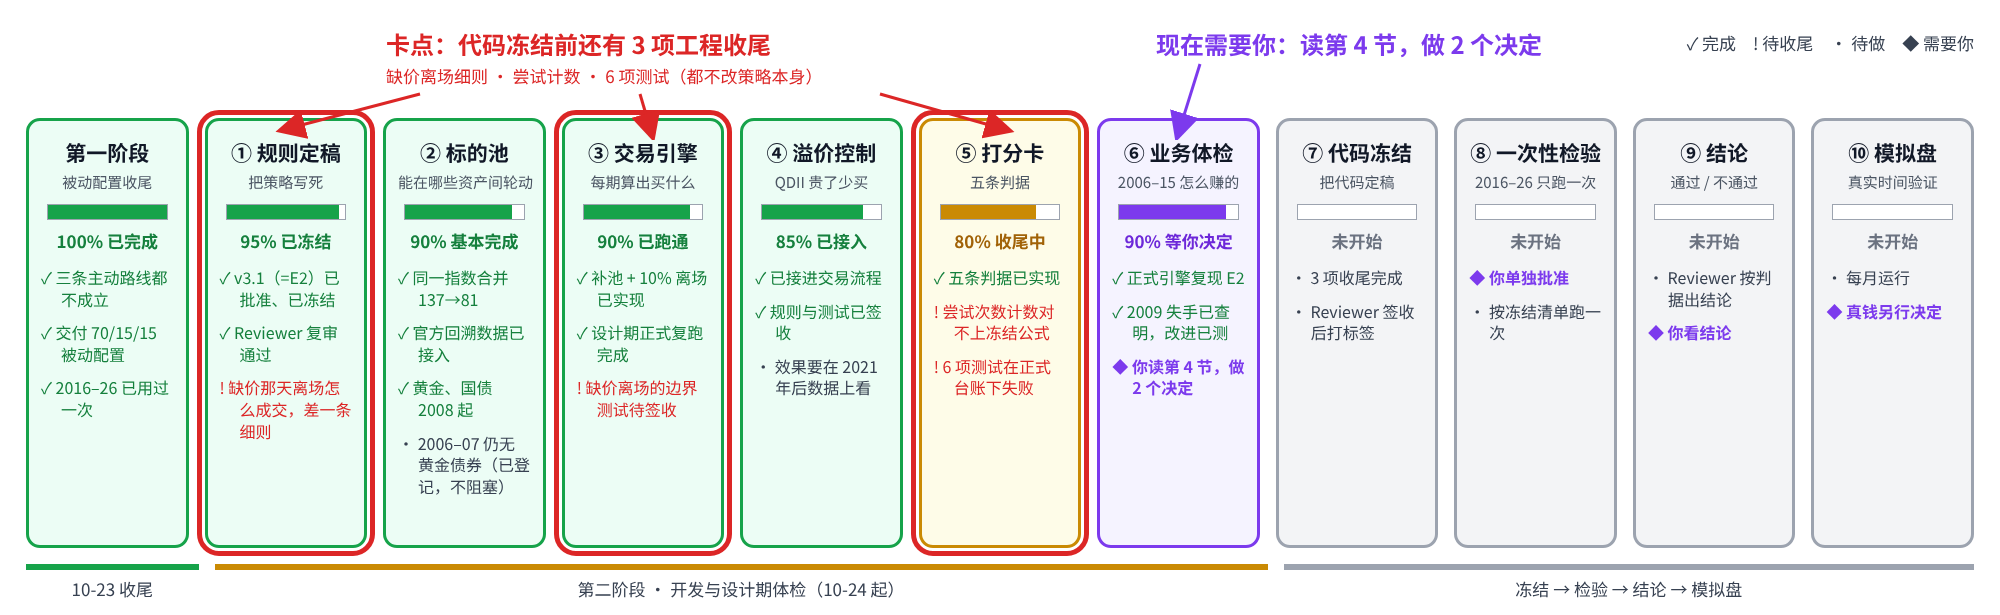
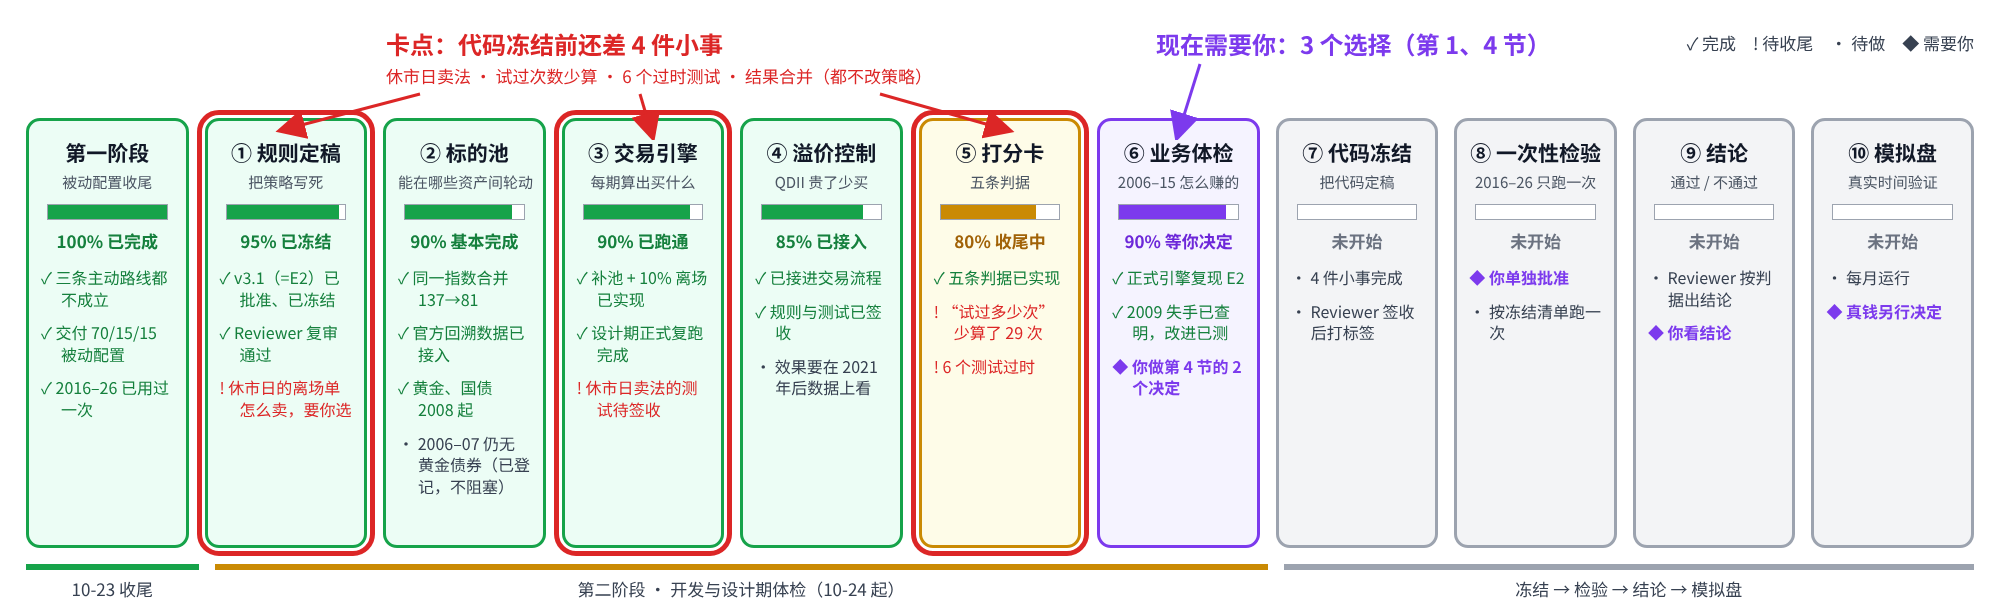
docs(owner): explain each pre-freeze item and restructure the strategy section
Each open item now says what happened, how much it matters, and whether
the Owner needs to act; the holiday-day exit fill is laid out as a choice.
The strategy section explains the four-step selection first, then each
version with the one change it makes and its result. Key numbers are
colored by meaning; C1/C2 show the exact rule change against E2.

Claude-Session: https://claude.ai/code/session_01PmXaEwvnhMrSzwWPeiEpbL

diff --git a/results/v3/diag/2026-10-27-owner-board/roadmap.html b/results/v3/diag/2026-10-27-owner-board/roadmap.html
@@ -28,27 +28,27 @@ body{font-family:"Noto Sans CJK SC",sans-serif;background:#fff;color:#111827;wid
 .bands div{border-top:6px solid;padding-top:6px}
 </style></head><body>
 <div class="top">
-  <div class="call red" style="left:360px;top:0">卡点：代码冻结前还有 3 项工程收尾<small>缺价离场细则 · 尝试计数 · 6 项测试（都不改策略本身）</small></div>
-  <div class="call pur" style="left:1130px;top:0">现在需要你：读第 4 节，做 2 个决定</div>
+  <div class="call red" style="left:360px;top:0">卡点：代码冻结前还差 4 件小事<small>休市日卖法 · 试过次数少算 · 6 个过时测试 · 结果合并（都不改策略）</small></div>
+  <div class="call pur" style="left:1130px;top:0">现在需要你：3 个选择（第 1、4 节）</div>
   <div class="legend">✓ 完成　! 待收尾　· 待做　◆ 需要你</div>
 </div>
 <div class="row">
   <div class="card done"><h3>第一阶段</h3><div class="sub">被动配置收尾</div><div class="bar"><i style="width:100%"></i></div><div class="pct">100% 已完成</div>
     <ul><li class="ok">✓ 三条主动路线都不成立</li><li class="ok">✓ 交付 70/15/15 被动配置</li><li class="ok">✓ 2016–26 已用过一次</li></ul></div>
   <div class="card done block"><h3>① 规则定稿</h3><div class="sub">把策略写死</div><div class="bar"><i style="width:95%"></i></div><div class="pct">95% 已冻结</div>
-    <ul><li class="ok">✓ v3.1（=E2）已批准、已冻结</li><li class="ok">✓ Reviewer 复审通过</li><li class="iss">! 缺价那天离场怎么成交，差一条细则</li></ul></div>
+    <ul><li class="ok">✓ v3.1（=E2）已批准、已冻结</li><li class="ok">✓ Reviewer 复审通过</li><li class="iss">! 休市日的离场单怎么卖，要你选</li></ul></div>
   <div class="card done"><h3>② 标的池</h3><div class="sub">能在哪些资产间轮动</div><div class="bar"><i style="width:90%"></i></div><div class="pct">90% 基本完成</div>
     <ul><li class="ok">✓ 同一指数合并 137→81</li><li class="ok">✓ 官方回溯数据已接入</li><li class="ok">✓ 黄金、国债 2008 起</li><li class="pt">· 2006–07 仍无黄金债券（已登记，不阻塞）</li></ul></div>
   <div class="card done block"><h3>③ 交易引擎</h3><div class="sub">每期算出买什么</div><div class="bar"><i style="width:90%"></i></div><div class="pct">90% 已跑通</div>
-    <ul><li class="ok">✓ 补池 + 10% 离场已实现</li><li class="ok">✓ 设计期正式复跑完成</li><li class="iss">! 缺价离场的边界测试待签收</li></ul></div>
+    <ul><li class="ok">✓ 补池 + 10% 离场已实现</li><li class="ok">✓ 设计期正式复跑完成</li><li class="iss">! 休市日卖法的测试待签收</li></ul></div>
   <div class="card done"><h3>④ 溢价控制</h3><div class="sub">QDII 贵了少买</div><div class="bar"><i style="width:85%"></i></div><div class="pct">85% 已接入</div>
     <ul><li class="ok">✓ 已接进交易流程</li><li class="ok">✓ 规则与测试已签收</li><li class="pt">· 效果要在 2021 年后数据上看</li></ul></div>
   <div class="card go block"><h3>⑤ 打分卡</h3><div class="sub">五条判据</div><div class="bar"><i style="width:80%"></i></div><div class="pct">80% 收尾中</div>
-    <ul><li class="ok">✓ 五条判据已实现</li><li class="iss">! 尝试次数计数对不上冻结公式</li><li class="iss">! 6 项测试在正式台账下失败</li></ul></div>
+    <ul><li class="ok">✓ 五条判据已实现</li><li class="iss">! “试过多少次”少算了 29 次</li><li class="iss">! 6 个测试过时</li></ul></div>
   <div class="card wait"><h3>⑥ 业务体检</h3><div class="sub">2006–15 怎么赚的</div><div class="bar"><i style="width:90%"></i></div><div class="pct">90% 等你决定</div>
-    <ul><li class="ok">✓ 正式引擎复现 E2</li><li class="ok">✓ 2009 失手已查明，改进已测</li><li class="own">◆ 你读第 4 节，做 2 个决定</li></ul></div>
+    <ul><li class="ok">✓ 正式引擎复现 E2</li><li class="ok">✓ 2009 失手已查明，改进已测</li><li class="own">◆ 你做第 4 节的 2 个决定</li></ul></div>
   <div class="card todo"><h3>⑦ 代码冻结</h3><div class="sub">把代码定稿</div><div class="bar"><i style="width:0"></i></div><div class="pct">未开始</div>
-    <ul><li class="pt">· 3 项收尾完成</li><li class="pt">· Reviewer 签收后打标签</li></ul></div>
+    <ul><li class="pt">· 4 件小事完成</li><li class="pt">· Reviewer 签收后打标签</li></ul></div>
   <div class="card todo"><h3>⑧ 一次性检验</h3><div class="sub">2016–26 只跑一次</div><div class="bar"><i style="width:0"></i></div><div class="pct">未开始</div>
     <ul><li class="own">◆ 你单独批准</li><li class="pt">· 按冻结清单跑一次</li></ul></div>
   <div class="card todo"><h3>⑨ 结论</h3><div class="sub">通过 / 不通过</div><div class="bar"><i style="width:0"></i></div><div class="pct">未开始</div>

diff --git a/results/v3/diag/2026-10-27-owner-board/charts.py b/results/v3/diag/2026-10-27-owner-board/charts.py
@@ -59,7 +59,6 @@ for ax, g, c, nm in [(axs[0], g3, c3, 'v3：指数发布日之后才能选'), (a
     ax.grid(axis='x', visible=False); ax.set_xlabel('年份（20xx）', fontsize=10, color=MUTED)
     ax.set_title(nm, loc='left', fontsize=12, weight='bold', color=INK, pad=22)
     ax.text(-.5, 108.5, '柱顶数字 = 当年能选几个', fontsize=9.5, color=MUTED)
-    if nm.startswith('E1'): ax.annotate('现金只剩 4% 和 3%', xy=(0.5, 97), xytext=(2.2, 104.5), fontsize=10, weight='bold', color='#111827', arrowprops=dict(arrowstyle='->', color='#111827', lw=1))
 axs[0].set_ylabel('全年平均仓位 %')
 axs[1].legend(ncol=4, frameon=False, loc='upper center', bbox_to_anchor=(-.03, -.13), fontsize=10)
 fig.suptitle('同一套规则，可选标的从 4–6 个变成 17 个，牛市里的现金从 60% 降到 4%', x=.125, ha='left', y=1.04, fontsize=14.5, weight='bold', color=INK)
@@ -98,8 +97,8 @@ for k in order:
                  color=C[k] if k != 'v3' else '#6b7280', weight='bold')
 ax2.set_ylabel('从最高点回落 %'); ax2.set_ylim(-75, 3)
 ax2.set_xlim(pd.Timestamp('2006-01-01'), pd.Timestamp('2017-04-01'))
-ax.legend(handles=[Line2D([], [], color=C[k], lw=2.4, label={'基准': '基准：70% 沪深300 + 15% 纳指 + 15% 标普', 'v3': 'v3：原规则',
-          'E1': 'E1：v3 + 补全池子', 'E2': 'E2：E1 + 单只 10% 离场（已批准）'}[k]) for k in order],
+ax.legend(handles=[Line2D([], [], color=C[k], lw=2.4, label={'基准': '基准：70% 沪深300 + 15% 纳指 + 15% 标普', 'v3': 'v3：原规则（池子小）',
+          'E1': 'E1：补全池子', 'E2': 'E2：补全池子 + 10% 离场（现行）'}[k]) for k in order],
           frameon=False, loc='upper left', bbox_to_anchor=(0, .86), fontsize=10)
 title(ax, '补全池子让 v3 从跑输变成跑赢；再加 10% 离场，收益更高、回撤更浅',
       '设计期 2006-01 → 2015-12，扣成本；下图是同期每条线离自己最高点跌了多少。')
